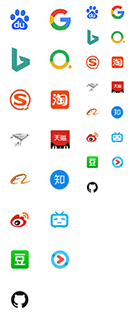
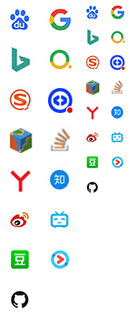
Site updated: 2022-10-16 19:09:01

diff --git a/js/header.js b/js/header.js
@@ -13,17 +13,37 @@ function search(searchIconUrl) {
             position: "0px 0px",
             url: "https://www.baidu.com/s?wd="
         }, {
-            name: "谷歌",
-            img: "url(" + searchIconUrl + ")  -105px 0px",
-            position: "-40px 0px",
-            url: "https://www.google.com/search?q="
-        }, {
             name: "必应",
             img: "url(" + searchIconUrl + ")  -80px -25px",
             position: "0px -40px",
             url: "https://cn.bing.com/search?q="
         }, {
-            name: "好搜",
+            name: "谷歌",
+            img: "url(" + searchIconUrl + ")  -105px 0px",
+            position: "-40px 0px",
+            url: "https://www.google.com/search?q="
+        }, {
+            name: "GitHub",
+            img: "url(" + searchIconUrl + ") -80px -175px",
+            position: "0px -280px",
+            url: "https://github.com/search?utf8=✓&q="
+        }, {
+            name: "Stack Overflow",
+            img: "url(" + searchIconUrl + ") -105px -75px",
+            position: "-40px -120px",
+            url: "https://stackoverflow.com/nocaptcha?s="
+        }, {
+            name: "开发者搜索",
+            img: "url(" + searchIconUrl + ") -105px -50px",
+            position: "-40px -80px",
+            url: "https://kaifa.baidu.com/searchPage?wd="
+        }, {
+            name: "Yandex",
+            img: "url(" + searchIconUrl + ") -80px -100px",
+            position: "0px -160px",
+            url: "https://yandex.com/search/?text="
+        }, {
+            name: "360搜索",
             img: "url(" + searchIconUrl + ") -105px -25px",
             position: "-40px -40px",
             url: "https://www.so.com/s?q="
@@ -33,25 +53,10 @@ function search(searchIconUrl) {
             position: "0px -80px",
             url: "https://www.sogou.com/web?query="
         }, {
-            name: "淘宝",
-            img: "url(" + searchIconUrl + ") -105px -50px",
-            position: "-40px -80px",
-            url: "https://s.taobao.com/search?q="
-        }, {
-            name: "京东",
+            name: "Minecraft Wiki",
             img: "url(" + searchIconUrl + ") -80px -75px",
             position: "0px -120px",
-            url: "http://search.jd.com/Search?keyword="
-        }, {
-            name: "天猫",
-            img: "url(" + searchIconUrl + ") -105px -75px",
-            position: "-40px -120px",
-            url: "https://list.tmall.com/search_product.htm?q="
-        }, {
-            name: "1688",
-            img: "url(" + searchIconUrl + ") -80px -100px",
-            position: "0px -160px",
-            url: "https://s.1688.com/selloffer/offer_search.htm?keywords="
+            url: "https://minecraft.fandom.com/zh/wiki/Special:Search?query="
         }, {
             name: "知乎",
             img: "url(" + searchIconUrl + ") -105px -100px",
@@ -77,11 +82,6 @@ function search(searchIconUrl) {
             img: "url(" + searchIconUrl + ") -105px -150px",
             position: "-40px -240px",
             url: "https://so.youku.com/search_video/q_"
-        }, {
-            name: "GitHub",
-            img: "url(" + searchIconUrl + ") -80px -175px",
-            position: "0px -280px",
-            url: "https://github.com/search?utf8=✓&q="
         }]
     };
     var localSearchData = localStorage.getItem("searchData");
